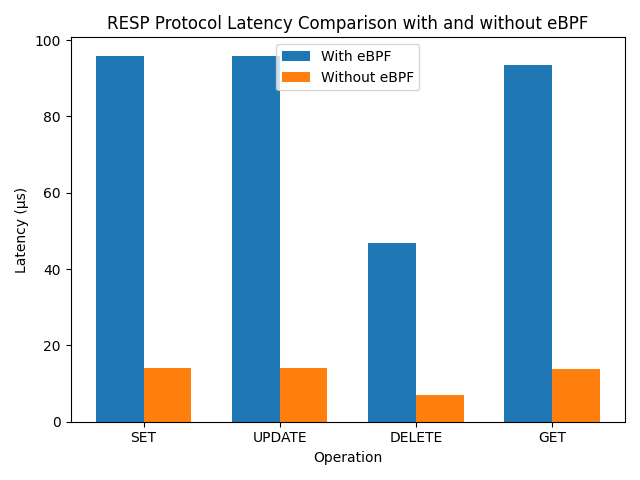
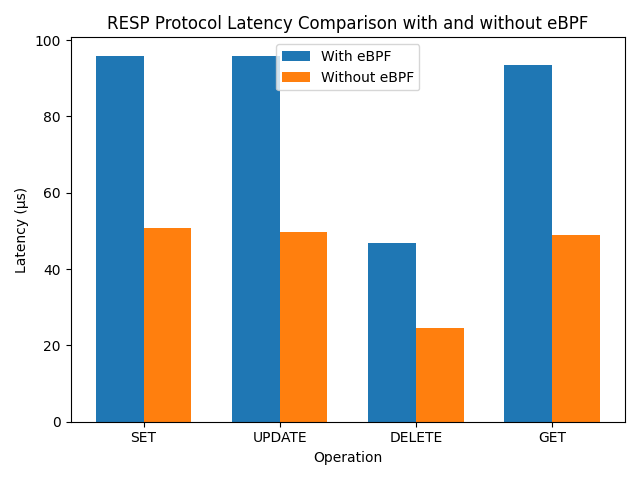
update README

diff --git a/src/redis-ebpf-analysis/perf/plot.py b/src/redis-ebpf-analysis/perf/plot.py
@@ -3,7 +3,7 @@ import matplotlib.pyplot as plt
 # Latency values in microseconds
 operations = ['SET', 'UPDATE', 'DELETE', 'GET']
 latency_with_ebpf = [95.869, 95.926, 46.954, 93.577]
-latency_without_ebpf = [14.006, 13.956, 6.878, 13.736]
+latency_without_ebpf = [50.767, 49.722, 24.538, 48.849]
 
 x = range(len(operations))
 

diff --git a/README.md b/README.md
@@ -240,15 +240,8 @@ sudo cat /sys/kernel/debug/tracing/trace_pipe
 - 以可读的格式打印Redis协议中的数据内容。
 
 **输出内容如下：**
-```
-2024/12/25 08:45:44 set name os-work, Latency: 3696 ns
-2024/12/25 08:45:44 get name, Latency: 4849 ns
-2024/12/25 08:45:44 del name, Latency: 5866 ns
-2024/12/25 08:45:44 set name linzhicheng, Latency: 2940 ns
-2024/12/25 08:45:44 set name os-work, Latency: 4374 ns
-2024/12/25 08:45:44 get name, Latency: 6298 ns
-2024/12/25 08:45:44 del name, Latency: 3752 ns
-```
+<img src="./assets/test1.png" height="75%" width="75%">
+<img src="./assets/test2.png" height="75%" width="75%">
 
 #### 3. 模块设计
 ##### 3.1. 用户态程序（Go语言）
